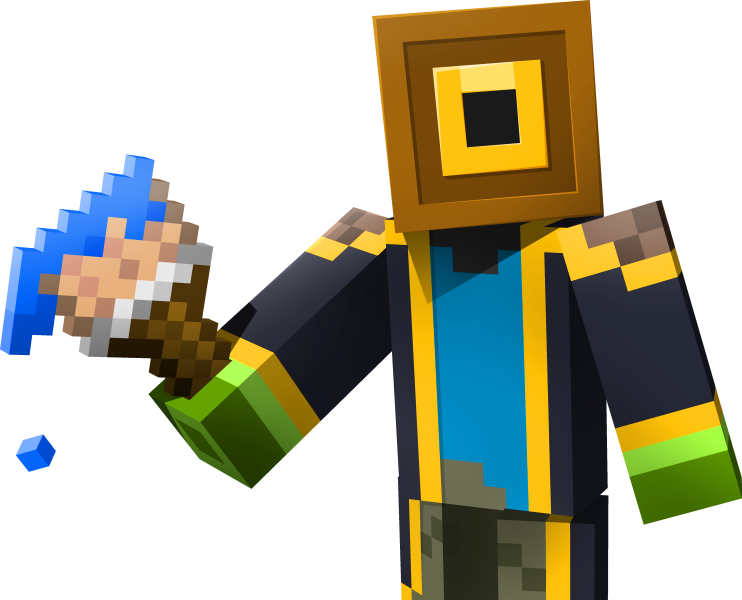
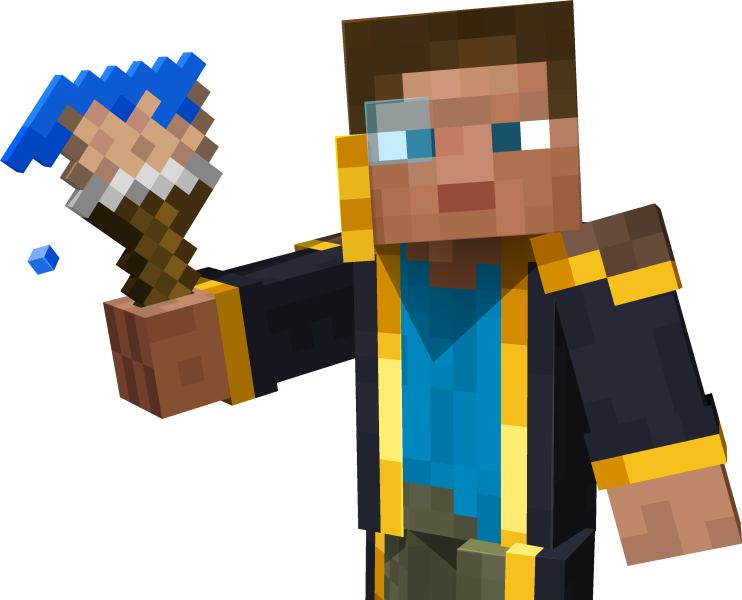
Updated about us

diff --git a/index.html b/index.html
@@ -99,6 +99,13 @@
 								<div class="fake-img" style="--src:url('/images/RJ.webp');"></div>
 							</div>
 						</li>
+						<li img-src="/images/heads/patred.png">
+							<div class="about-me">
+								<h2>Patred</h2>
+								<p>Hello! I am the person who created a lot of the fonts that most people use for their Minecraft logos and designs, including MC Ten Drip, Serif, Dungeons, and others. These fonts were all created in FontStruct, you can check out my profile <a href="https://fontstruct.com/fontstructors/2161953/patred" target="_blank">here</a> and get them or download them <a href="/download-fonts/patred" target="_blank">here</a> at MCTitles to make your logo typography cooler. No need for credit.</p>
+								<div class="fake-img" style="--src:url('/images/patred.png');"></div>
+							</div>
+						</li>
 						<li img-src="/images/heads/Floiden.png">
 							<div class="about-me">
 								<h2>FloideN</h2>
